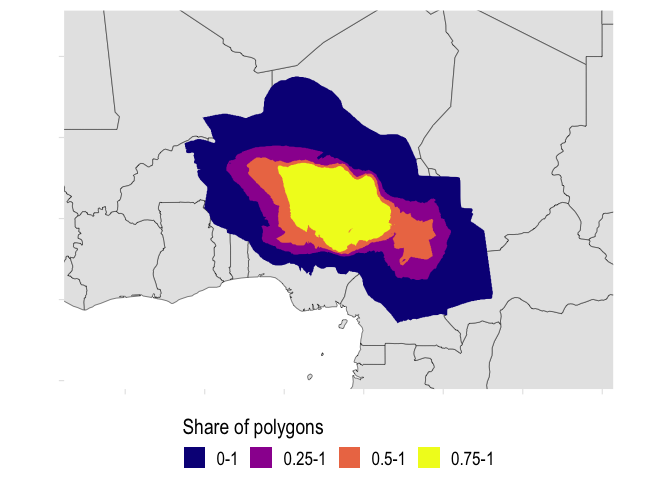
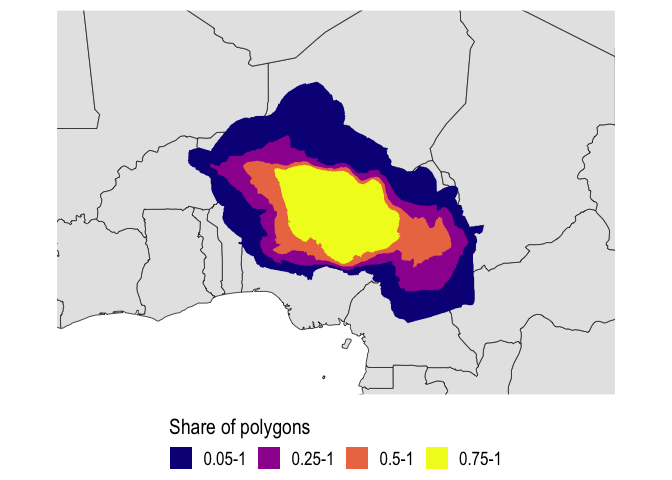
Bug fixes and updated README

diff --git a/README.md b/README.md
@@ -31,12 +31,24 @@ devtools::install_github("ccappelen/legaciesR")
 
 ``` r
 library(legaciesr)
-#> Warning: replacing previous import 'dplyr::intersect' by 'terra::intersect'
-#> when loading 'legaciesr'
-#> Warning: replacing previous import 'glue::trim' by 'terra::trim' when loading
-#> 'legaciesr'
-#> Warning: replacing previous import 'dplyr::union' by 'terra::union' when
+#> Warning: replacing previous import 'data.table::first' by 'dplyr::first' when
 #> loading 'legaciesr'
+#> Warning: replacing previous import 'data.table::between' by 'dplyr::between'
+#> when loading 'legaciesr'
+#> Warning: replacing previous import 'data.table::last' by 'dplyr::last' when
+#> loading 'legaciesr'
+#> Warning: replacing previous import 'dplyr::union' by 'raster::union' when
+#> loading 'legaciesr'
+#> Warning: replacing previous import 'dplyr::intersect' by 'raster::intersect'
+#> when loading 'legaciesr'
+#> Warning: replacing previous import 'data.table::shift' by 'raster::shift' when
+#> loading 'legaciesr'
+#> Warning: replacing previous import 'glue::trim' by 'raster::trim' when loading
+#> 'legaciesr'
+#> Warning: replacing previous import 'dplyr::select' by 'raster::select' when
+#> loading 'legaciesr'
+#> Warning: replacing previous import 'data.table:::=' by 'rlang:::=' when loading
+#> 'legaciesr'
 #> Warning: replacing previous import 'terra::extract' by 'tidyr::extract' when
 #> loading 'legaciesr'
 #> Warning: replacing previous import 'terra::na.omit' by 'stats::na.omit' when
@@ -115,18 +127,21 @@ future::plan("multisession", workers = future::availableCores())
 
 The raw map and ID data is not currently included in the package and
 therefore has to be loaded from the user’s own directory. The raw
-mapping data is the set of shapefiles called “master_shapefile”, while
-the raw ID data isd called “legacies_id_coding.xlsx”:
+mapping data is the shapefile called “master_shapefile”, while the raw
+ID data isd called “legacies_id_coding.xlsx”. NB: Reading a .gpkg
+shapefile results in the geometry column being names “geom”, while the
+functions assume the geometry column is named “geometry”. Hence, it is
+necessary to rename the geometry column before continuing.
 
 ``` r
-shp_folder <- "path to map data folder"
-shp_name <- "name of shapefile"
-id_path <- "file path to id data"
+shp_path <- "path/name of shapefile, with .gpkg file extension"
+id_path <- "file path/name to id data (.xlsx)"
 ```
 
 ``` r
-shp <- st_read(shp_path, shp_name)
-rm(shp_folder, shp_name)
+shp <- st_read(shp_path) |> 
+  rename(geometry = geom)
+rm(shp_path)
 
 id <- readxl::read_xlsx(isd_path)
 rm(id_path)
@@ -154,7 +169,7 @@ issues.
 
 ``` r
 shp <- fix_invalid(shp)
-#> 447 (3.3 %) geometries were successfully rebuilt.
+#> 631 (4 %) geometries were successfully rebuilt.
 #> 0 (0 %) geometries failed to rebuild as valid.
 ```
 
@@ -182,23 +197,33 @@ therefore also necessary to provide the ID data (see previous step) in
 order to match the two data sets. By default, the function will (1)
 expand the data to have one row per year for maps that are assigned a
 range of years, (2) fix potential issues such as three-digit years due
-to approximate dating, (3) exclude maps without your assignment, (4) add
+to approximate dating, (3) exclude maps without year assignment, (4) add
 information on capitals (names and coordinates), (5) crop all geometries
-to coastlines\*, (6) exclude maps marked as “incomplete”, (7) exclude
-maps of core regions (if they are marked as such)\*\*, and (8) exclude
-maps for years in which a state is not considered sovereign (in the ID
-data)\*\*\*. Each of these options can be disabled. It is also possible
-to exclude maps based on the hierarchy coding of states, i.e., if states
-are coded as tributary and/or dependency.
+to coastlines, (6) exclude maps marked as “incomplete”, (7) include maps
+of core regions (if they are marked as such), and (8) exclude maps for
+years in which a state is not included in the ID data\*.
 
-\* The cropped geometries currently result in errors when creating
-contour polygons (but work for grid data) \*\* There are currently
-errors in the coding of core regions. \*\*\* By default, maps are
-included if they fall within a 5-year window of when a state is
-considered sovereign. The size of the window can be changed with the
-`margin_sovereign` option.
+The latter option (8) is important as it determines what types of
+entities are included in the final shapefile, and this is determined by
+how the ID data is subset. If the complete ID data is used (after
+`legaciesr::prepare_id()`), the result is to include all “polities”,
+which mean all entities that have at least internal autonomy but not
+necessarily external autonomy (i.e. it includes entities with
+`hierarchy = 2`). If the ID data is subset to include only quasi-states
+and states, then the resulting shapefile will similarly only include
+maps from years in which a given entity is considered a quasi-state or a
+state in the ID data (except for the 5-year window). In the following,
+we subset the ID data to quasi-states and states.
+
+\* By default, maps are included if they fall within a 5-year window of
+when a state is included in the ID data. The size of the window can be
+changed with the `margin_sovereign` option.
 
 ``` r
+# First, subset ID data to include only polity-years of quasi-states and states
+id <- id |> 
+  filter(state_type %in% c("Quasi-state", "State"))
+
 shp <- prepare_shapes(shp = shp, state_data = id,
                       id_var = COWID, period_var = year,
                       range_min = lyear, range_max = hyear,
@@ -229,13 +254,13 @@ errors <- detect_errors(shp = shp, capital_data = id,
                         progress = FALSE)
 #> 
 #> POTENTIAL ERRORS:
-#> • 113 states with potentially duplicate COWIDs.
-#> • 8 shapes with empty geometries.
+#> • 4 states with potentially duplicate COWIDs.
+#> • 0 shapes with empty geometries.
 #> • 0 shapes with missing IDs.
-#> • 23 COWIDs with only a single map.
-#> • 75 maps with years missing or outside 1750-1920.
-#> • 2188 maps that do not overlap with other shapes with the same ID.
-#> • 4765 maps where the capital falls outside the polygon.
+#> • 47 COWIDs with only a single map.
+#> • 0 maps with years missing or outside 1750-1920.
+#> • 2913 maps that do not overlap with other shapes with the same ID.
+#> • 2154 maps where the capital falls outside the polygon.
 ```
 
 Second, it returns a list composed of (1) the original data with columns
@@ -249,33 +274,33 @@ erroneous COWID assignment or erroneous geocoding of the map).
 ``` r
 shp_non_overlap <- errors$report$non_overlap
 shp_non_overlap
-#> Simple feature collection with 2188 features and 33 fields
-#> Active geometry column: geometry (with 8 geometries empty)
+#> Simple feature collection with 2913 features and 42 fields
+#> Active geometry column: geometry
 #> Geometry type: GEOMETRY
 #> Dimension:     XY
-#> Bounding box:  xmin: -17.26439 ymin: -29.96989 xmax: 115.7275 ymax: 45.67083
+#> Bounding box:  xmin: -17.10275 ymin: -26.98566 xmax: 179.8613 ymax: 56.78339
 #> Geodetic CRS:  WGS 84
-#> # A tibble: 2,188 × 35
-#> # Groups:   COWID [95]
+#> # A tibble: 2,913 × 44
+#> # Groups:   COWID [59]
 #>    COWID COWNUM polity_name map_name     year lyear hyear coder note  coasterror
-#>  * <chr>  <int> <chr>       <chr>       <int> <chr> <chr> <chr> <chr>      <int>
-#>  1 AGA     4783 agaie       Agaie        1870 1870  1870  cm    <NA>          NA
-#>  2 AIR     4361 air         Wuste Agad…  1787 1787  1787  ss    Spli…         NA
-#>  3 AIR     4361 air         Agades       1795 1795  1795  ss    <NA>          NA
-#>  4 AIR     4361 air         Agades       1790 1790  1790  ss    <NA>          NA
-#>  5 AIR     4361 air         Air or Asb…  1874 1874  1874  ss    <NA>          NA
-#>  6 AIR     4361 air         Agades       1811 1811  1811  ss    <NA>          NA
-#>  7 AIR     4361 air         Agades       1814 1814  1814  ss    <NA>          NA
-#>  8 AIR     4361 air         Agades       1818 1818  1818  ss    <NA>          NA
-#>  9 AIR     4361 air         Air or Asb…  1855 1855  1855  ss    <NA>          NA
-#> 10 AIR     4361 air         Air, Asben   1808 1808  1808  ss    Bord…         NA
-#> # ℹ 2,178 more rows
-#> # ℹ 25 more variables: cityerror <dbl>, sourcetype <int>, `Core/Great` <int>,
-#> #   source <chr>, core <int>, id <dbl>, layer <chr>, path <chr>,
-#> #   lyear_str <chr>, core_str <chr>, geometry <GEOMETRY [°]>, geom_valid <lgl>,
-#> #   rebuilt <lgl>, snap_precision <dbl>, capital_name <chr>,
-#> #   capital_coords <MULTIPOINT [°]>, incomplete <lgl>, in_spell <lgl>,
-#> #   empty_geom <lgl>, missing_id <lgl>, single_map <lgl>, year_outside <lgl>, …
+#>  * <chr>  <int> <chr>       <chr>       <dbl> <chr> <chr> <chr> <chr>      <int>
+#>  1 ACH     8531 aceh        atjeh (ach…  1782 1782  1828  ob    <NA>          39
+#>  2 ACH     8531 aceh        atjeh (ach…  1800 1782  1828  ob    <NA>          39
+#>  3 ACH     8531 aceh        atjeh (ach…  1820 1782  1828  ob    <NA>          39
+#>  4 ACH     8531 aceh        atjeh (ach…  1828 1782  1828  ob    <NA>          39
+#>  5 ACH     8531 aceh        sultanate …  1786 1786  1914  ob    <NA>          21
+#>  6 ACH     8531 aceh        sultanate …  1800 1786  1914  ob    <NA>          21
+#>  7 ACH     8531 aceh        sultanate …  1820 1786  1914  ob    <NA>          21
+#>  8 ACH     8531 aceh        sultanate …  1840 1786  1914  ob    <NA>          21
+#>  9 ACH     8531 aceh        sultanate …  1860 1786  1914  ob    <NA>          21
+#> 10 ACH     8531 aceh        Aceh         1858 1858  1908  ob    <NA>           9
+#> # ℹ 2,903 more rows
+#> # ℹ 34 more variables: cityerror <dbl>, sourcetype <dbl>, source <chr>,
+#> #   core <int>, id <dbl>, lyear_str <chr>, core_str <chr>, combo <chr>,
+#> #   tags <chr>, geom_char <chr>, .COWID_norm <chr>, .COWNUM_norm <chr>,
+#> #   .name_norm <chr>, .source_norm <chr>, geom_valid <lgl>, rebuilt <lgl>,
+#> #   snap_precision <dbl>, source_year <dbl>, incomplete <lgl>, map_year <dbl>,
+#> #   in_spell <lgl>, capital_name <chr>, hie_tributary <dbl>, …
 ```
 
 ## Create contour polygons
@@ -284,18 +309,36 @@ Contour polygons capture the varying degrees to which a given area is
 covered by the digitized maps. The contours divide the region covered by
 the union of all maps into custom intervals of the share of maps
 covering a given area. By default, the function divides the territory
-into four contours (correponding to 0-1, 0.25-1, 0.5-5, and 0.75-1). But
-the number of percentiles can be specified with the `cuts` option (see
-documentation for details).
+into four contours (correponding to 0-0.25, 0.25-0.50, 0.50-0.75, and
+0.75-1). But the number of intervals can be specified with the
+`n.breaks` option (see documentation for details). Specifying `n.breaks`
+results in intervals of the same range\*, but it is also possible to
+specify custom intervals of varying ranges using the `breaks` option,
+e.g., `breaks = c(0.15, 0.40, 0.75)`. Finally, the option `label.breaks`
+allows users to specify a set of labels for each interval (e.g.,
+periphery, intermediate, core). If not specified, the labels will
+automatically be equal to the intervals. `exclude_lower_bound` allows
+users to specify a lower threshold that will be excluded from the
+outermost contour polygon. For example, if `exclude_lower_bound = 0.05`
+the first interval will be, e.g., 0.05-0.25 instead of 0-0.25).
 
-\* If the number of maps for a given polity (or polity-period) is equal
-to or smaller than the number of `cuts` specified, the function will
-return fewer contour polygons for that polity. By default, the function
-returns a warning for those cases, but it is also possible to exclude
-those cases by setting `threshold_exclude` to `TRUE`.
+\* Except in the case of `exclude_lower_bound`, in which case the first
+interval will be truncated accordingly. If custom intervals are
+specified along with `exclude_lower_bound`, this will similarly result
+in truncation of the first interval.\
+\*\* If the number of maps for a given polity (or polity-period) is
+equal to or smaller than the number of `cuts` specified, the function
+will return fewer contour polygons for that polity. By default, the
+function returns a warning for those cases, but it is also possible to
+exclude those cases by setting `threshold_exclude` to `TRUE`.
 
 ``` r
-df_contour <- get_contours(shp, id_var = COWID)
+df_contour <- get_contours(shp, id_var = COWID, n.breaks = 4, exclude_lower_bound = 0.05)
+#> Jobs running sequentially.
+#> ℹ Reverts to original plan after running.
+# Alternative with custom intervals and labels
+# df_contour <- get_contours(shp, id_var = COWID, breaks = c(0.15, 0.75), 
+#   label.breaks = c("Periphery", "Intermediate", "Core"), exclude_lower_bound = 0.05)
 ```
 
 The code below plots the contour polygons for the Sokoto Caliphate:
@@ -320,7 +363,7 @@ df_contour |>
         legend.title.position = "top") 
 ```
 
-<img src="man/figures/README-plot_contours-1.png" width="100%" />
+<img src="man/figures/README-plot_contours-1.png" alt="" width="100%" />
 
 By default, the function summarizes the maps across the entire period
 (i.e. 1750-1920). However, it is also possible to specify the contour
@@ -328,7 +371,8 @@ polygons by drawn separately by specified period (see documentation for
 further details).
 
 ``` r
-df_contour_panel <- get_contours(shp, id_var = COWID, by_period = TRUE, period_var = year)
+df_contour_panel <- get_contours(shp, id_var = COWID, by_period = TRUE, period_var = year, 
+                                 n.breaks = 4, exclude_lower_bound = 0.05)
 
 df_contour_panel |>
   filter(COWID == "SOK") |>
@@ -345,7 +389,7 @@ df_contour_panel |>
   facet_wrap(~ period)
 ```
 
-<img src="man/figures/README-contour_panel-1.png" width="100%" />
+<img src="man/figures/README-contour_panel-1.png" alt="" width="100%" />
 
 ## Create grid data
 
@@ -418,7 +462,7 @@ ggplot() +
         legend.title = element_text(size = 12))
 ```
 
-<img src="man/figures/README-plot_grid-1.png" width="100%" />
+<img src="man/figures/README-plot_grid-1.png" alt="" width="100%" />
 
 Again, it is also possible to create a panel version of the grid data,
 divided by specified period (by default it will create a panel for each
@@ -473,7 +517,7 @@ ggplot() +
   facet_grid(~ lyr)
 ```
 
-<img src="man/figures/README-plot_panel_grid-1.png" width="100%" />
+<img src="man/figures/README-plot_panel_grid-1.png" alt="" width="100%" />
 
 ## Aggregate ID data
 
